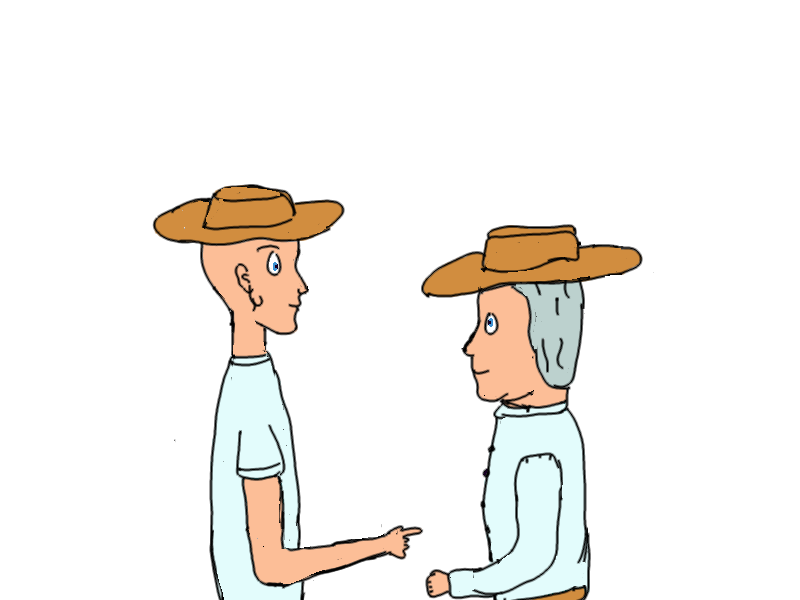
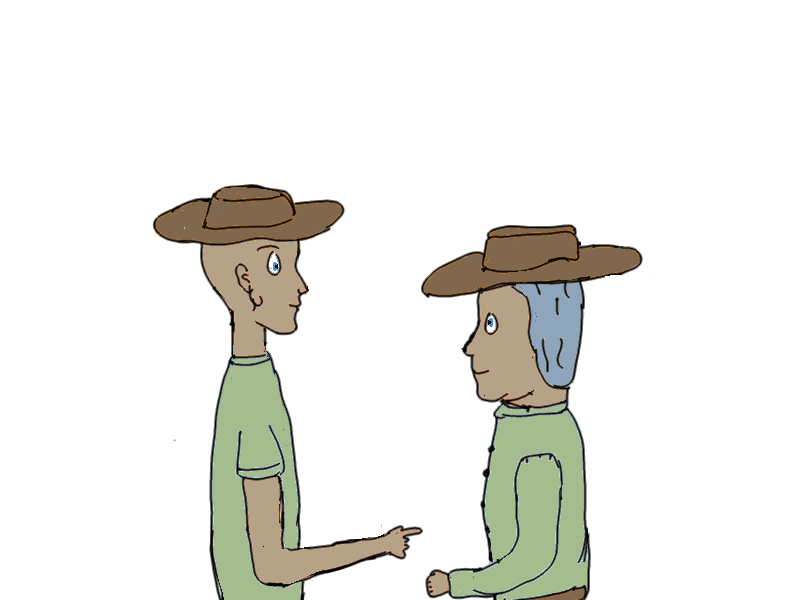
Updated art (colors).
Art:    Used new palette
Source: Updated hardcoded colors

svn path=/trunk/; revision=209

Changed region(s): [[0.5312, 0.36, 0.8125, 1.0], [0.1875, 0.3, 0.5312, 1.0]]

diff --git a/Source/StandardUnit.cpp b/Source/StandardUnit.cpp
@@ -48,28 +48,28 @@ const Uint32 StandardUnit::DURATION()
 const Uint32 StandardUnit::BLACK()
 {
     //FIX to match art
-    static const Uint32 TMP = 0x170024FF;
+    static const Uint32 TMP = 0x3a185cff;
     return TMP;
 }
 
 const SDL_Color StandardUnit::SDL_BLACK()
 {
     //FIX to match art
-    static const SDL_Color TMP = { 0x17, 0x00, 0x24, 0xFF };
+    static const SDL_Color TMP = { 0x3a, 0x18, 0x5c, 0xff};
     return TMP;
 }
 
 const Uint32 StandardUnit::WHITE()
 {
     //FIX to match art
-    static const Uint32 TMP = 0xFCE3FCFF;
+    static const Uint32 TMP = 0xf0fafaff;
     return TMP;
 }
 
 const SDL_Color StandardUnit::SDL_WHITE()
 {
     //FIX to match art
-    static const SDL_Color TMP = { 0xFF, 0xE3, 0xFC, 0xFC };
+    static const SDL_Color TMP = { 0xf0, 0xfa, 0xfa, 0xff};
     return TMP;
 }
 

diff --git a/Source/Line.cpp b/Source/Line.cpp
@@ -747,10 +747,10 @@ void Line::draw(boost::shared_ptr<Layout> &layout, Renderer &renderer)
     if( !sharedOcean )
         return;
 
-    const Uint32 WHITE = renderer.makeColor(0xFF, 0xFF, 0xFF, 0xFF);
-    const Uint32 SURFACE_BLUE = renderer.makeColor(0x3f, 0x92, 0xd1, 0xff);
-    const Uint32 OCEAN_BLUE = renderer.makeColor(0x00, 0x45, 0xA6, 0xff);
-    const Uint32 POLE_RED = renderer.makeColor(0x00, 0x00, 0x00, 0x00);
+    const Uint32 WHITE = renderer.makeColor(0xf0, 0xfa, 0xfa, 0xff);
+    const Uint32 SURFACE_BLUE = renderer.makeColor(0x6c, 0x9e, 0x9e, 0xff);
+    const Uint32 OCEAN_BLUE = renderer.makeColor(0x4e, 0x4e, 0x80, 0xff);
+    const Uint32 POLE_RED = renderer.makeColor(0x3a, 0x18, 0x5c, 0x00);
     Dimension size(800.0, 600.0);
     Point noOffset(0.0, 0.0);
     Point perspectiveSurface;

diff --git a/Source/Renderer.cpp b/Source/Renderer.cpp
@@ -306,7 +306,7 @@ void Renderer::manipulateImage(const std::string &path, const Transformation
         if( images.count(key) < 1 )
         {
             //Manually update to color in palette
-            const SDL_Color HIGHLIGHT_TEXT_COLOR = { 0xFC, 0xE6, 0x97, 0x00 };
+            const SDL_Color HIGHLIGHT_TEXT_COLOR = { 0xbd, 0xbd, 0x8e, 0x00 };
             if( fontSize == FontSize::Huge() )
                 highlightedText = TTF_RenderText_Blended(fontHuge, path.c_str(),
                     HIGHLIGHT_TEXT_COLOR);
